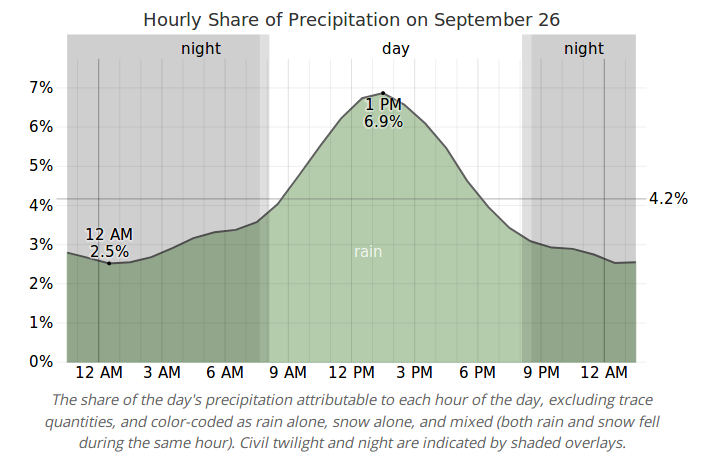
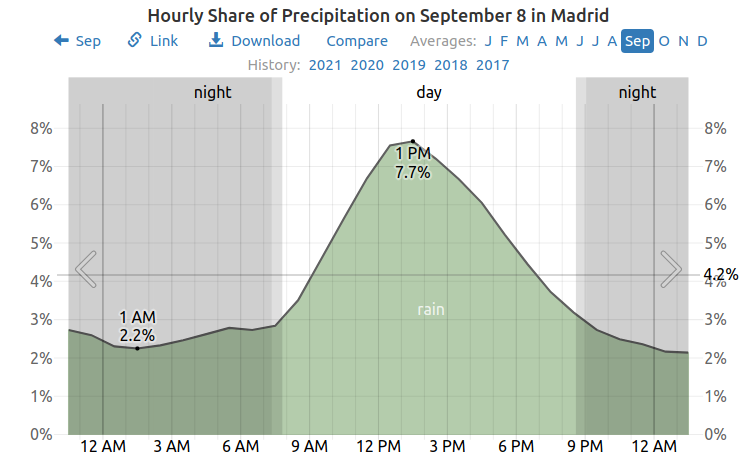
Using Sept 8th as the date for the weather report

diff --git a/travel/weather.html b/travel/weather.html
@@ -25,19 +25,19 @@
         <h2>Weather</h2>
         <hr>
 
-        <p style="text-align:justify;">&nbsp &nbsp WeatherSpark.com offers a nice report about the <a href="https://weatherspark.com/m/36848/9/Average-Weather-in-September-in-Madrid-Spain">average weather conditions in Madrid</a> during the month of September. For instance, on September 26 the temperature in Madrid typically ranges from 12&deg;C to 24&deg;C and is rarely below 8&deg;C or above 30&deg;C. </p>
+        <p style="text-align:justify;">&nbsp &nbsp WeatherSpark.com offers a nice report about the <a href="https://weatherspark.com/m/36848/9/Average-Weather-in-September-in-Madrid-Spain">average weather conditions in Madrid</a> during the month of September. For instance, on September 8 the temperature in Madrid typically ranges from 12&deg;C to 24&deg;C and is rarely below 8&deg;C or above 30&deg;C. </p>
 
         <br/>
-<p style="text-align:center;"><a href="https://weatherspark.com/d/36848/9/26/Average-Weather-on-September-26-in-Madrid-Spain#Sections-Temperature"><img src="avgtemp.png" width="713" height="479" border="0"/></a></p>
+<p style="text-align:center;"><a href="https://weatherspark.com/d/36848/9/8/Average-Weather-on-September-8-in-Madrid-Spain#Sections-Temperature"><img src="avgtemp.png" width="713" height="479" border="0"/></a></p>
         <br/>
-        <p style="text-align:justify;">&nbsp; &nbsp; The figure below shows you a compact characterization of the range of temperatures experienced on September 26 throughout the historical record. The horizontal axis is the time of day and the colored stacked areas indicate the percentage of hours spent in various temperature bands:</p>
+        <p style="text-align:justify;">&nbsp; &nbsp; The figure below shows you a compact characterization of the range of temperatures experienced on September 8 throughout the historical record. The horizontal axis is the time of day and the colored stacked areas indicate the percentage of hours spent in various temperature bands:</p>
         <br/>
-<p style="text-align:center;"><a href="https://weatherspark.com/d/36848/9/26/Average-Weather-on-September-26-in-Madrid-Spain#Sections-Temperature"><img src="tmpbands.png" width="711" height="357" border="0"/></a></p>
+<p style="text-align:center;"><a href="https://weatherspark.com/d/36848/9/8/Average-Weather-on-September-8-in-Madrid-Spain#Sections-Temperature"><img src="tmpbands.png" width="711" height="357" border="0"/></a></p>
         <br/>
 
-        <p style="text-align:justify;">&nbsp; &nbsp;  On average, there is a 12% chance that more than 1.00 millimeters of total precipitation will fall in Madrid throughout the day on September 26, all of which can be expected to be rain. For those 12% of years with precipitation on September 26, the chart below shows when throughout the day that precipitation is more or less likely to occur, excluding hourly accumulations of less than 0.25 millimeters. If precipitation were equally likely throughout the day, all hours would report 4.2% (100% divided by 24 hours).</p>
+        <p style="text-align:justify;">&nbsp; &nbsp;  On average, there is a 9% chance that more than 1.00 millimeters of total precipitation will fall in Madrid throughout the day on September 8, all of which can be expected to be rain. For those 9% of years with precipitation on September 8, the chart below shows when throughout the day that precipitation is more or less likely to occur, excluding hourly accumulations of less than 0.25 millimeters. If precipitation were equally likely throughout the day, all hours would report 4.2% (100% divided by 24 hours).</p>
         <br/>
-<p style="text-align:center;"><a href="https://weatherspark.com/d/36848/9/26/Average-Weather-on-September-26-in-Madrid-Spain#Sections-Temperature"><img src="avgprec.png" width="704" height="460" border="0"/></a></p>
+<p style="text-align:center;"><a href="https://weatherspark.com/d/36848/9/8/Average-Weather-on-September-8-in-Madrid-Spain#Sections-Temperature"><img src="avgprec.png" width="704" height="460" border="0"/></a></p>
         <br/>
 
 
